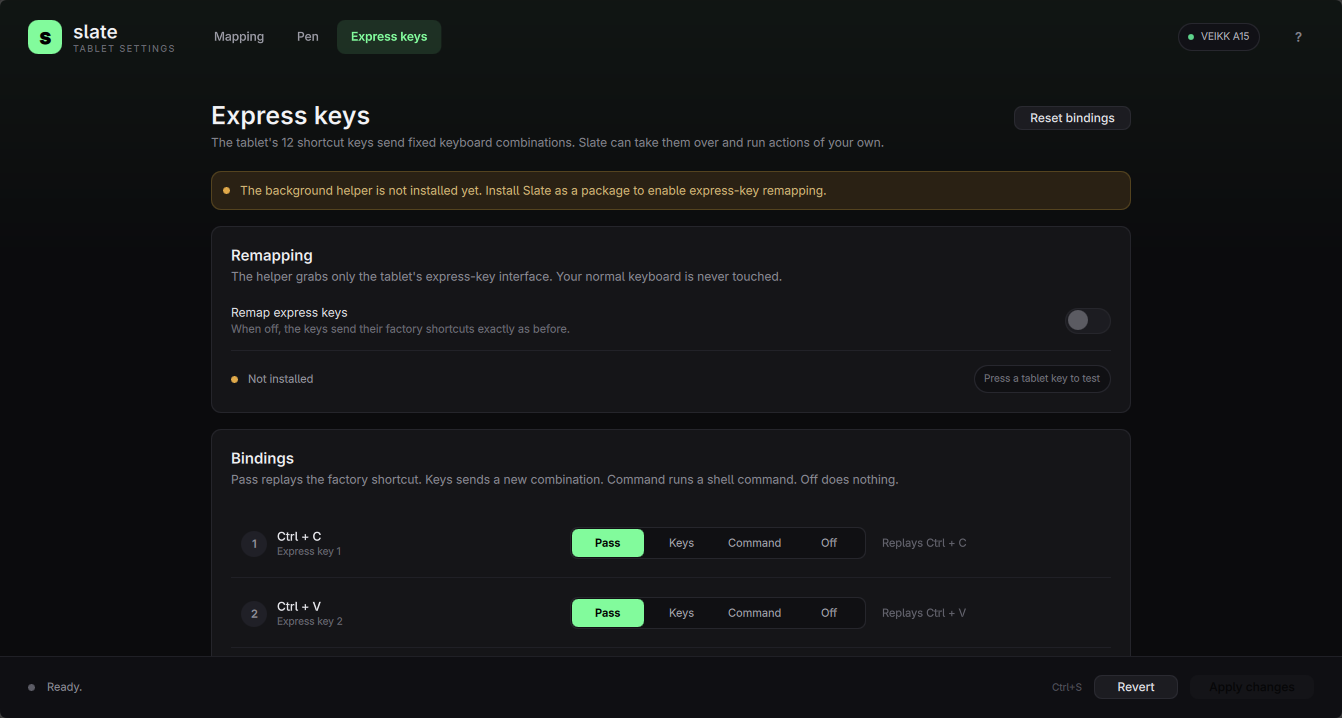
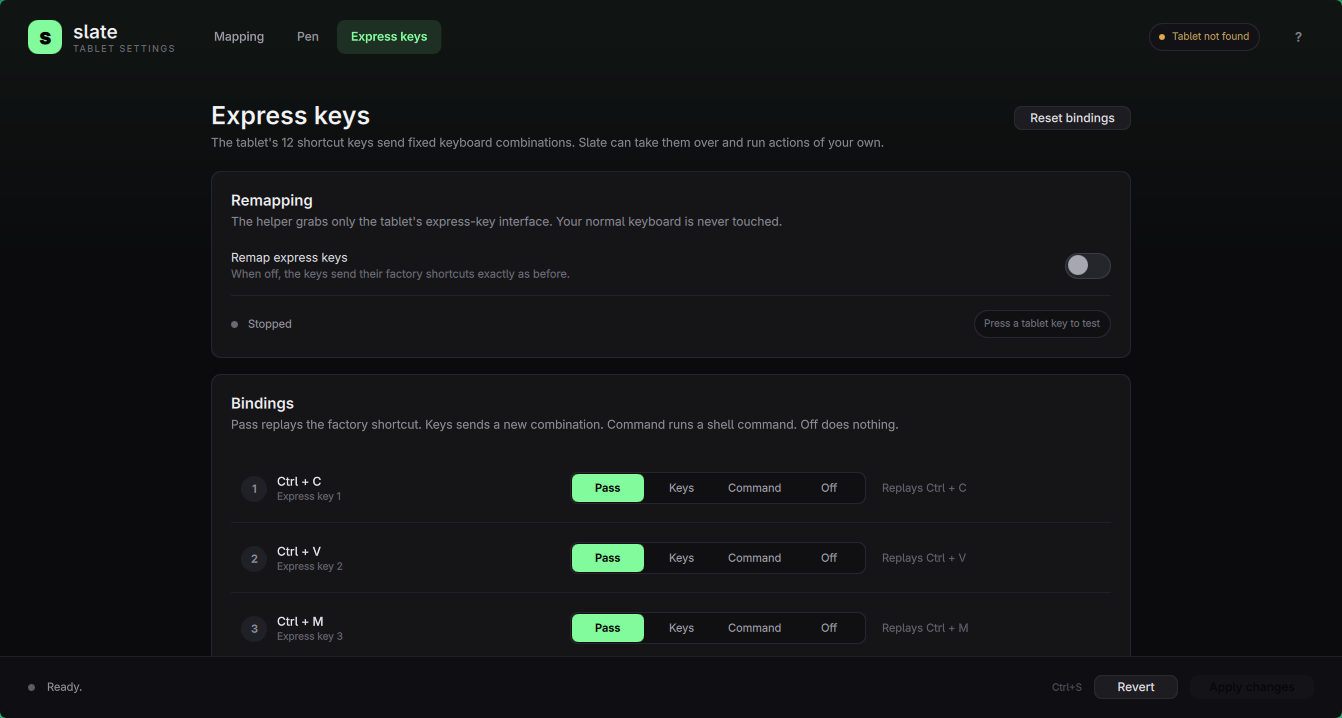
Document express keys and update screenshots

diff --git a/README.md b/README.md
@@ -111,6 +111,8 @@ shows `X`, `Y`, pressure, tilt, and whether the pen is in range. It reads
 
 ### Express keys
 
+![Slate express keys page](docs/slate-keys.png)
+
 Each row can be set to:
 
 | Action | Behaviour |
